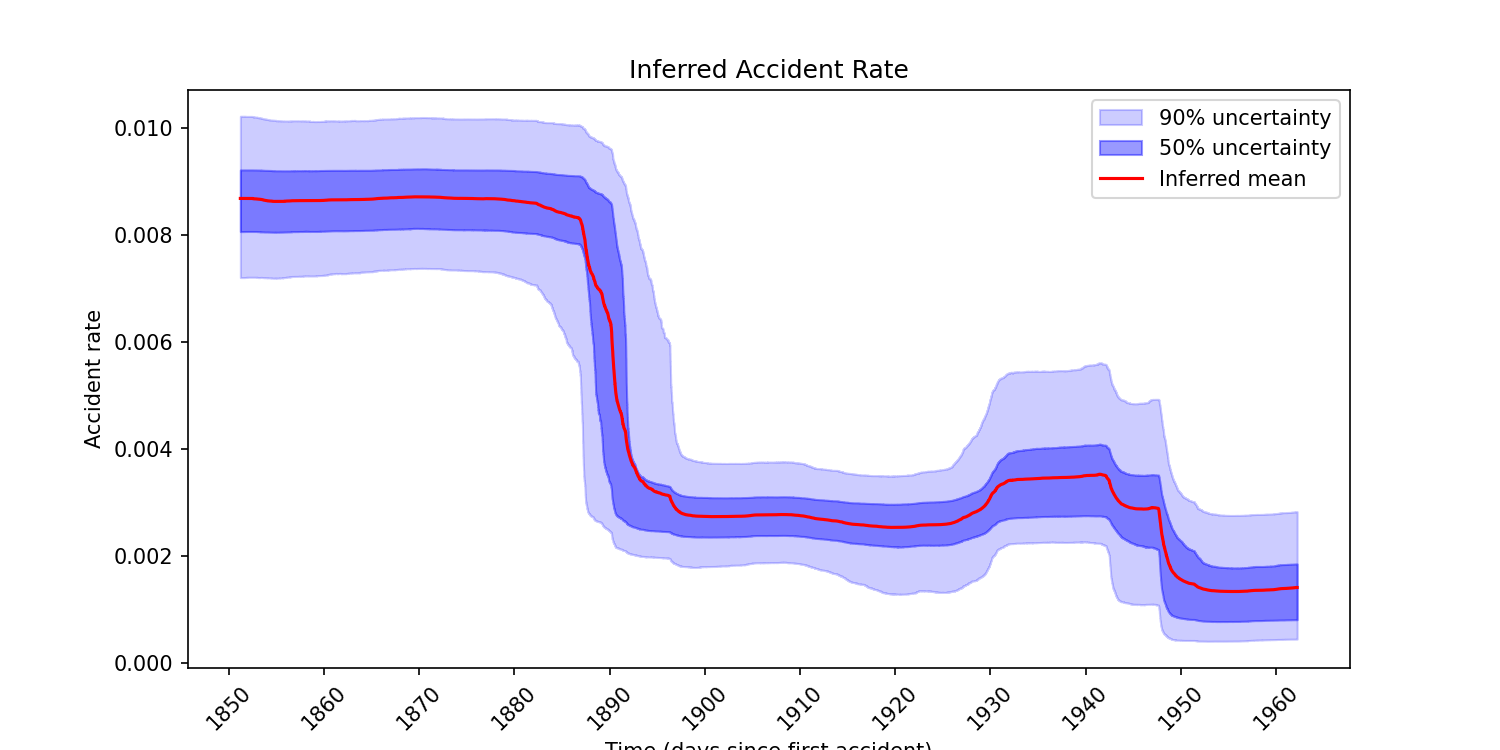
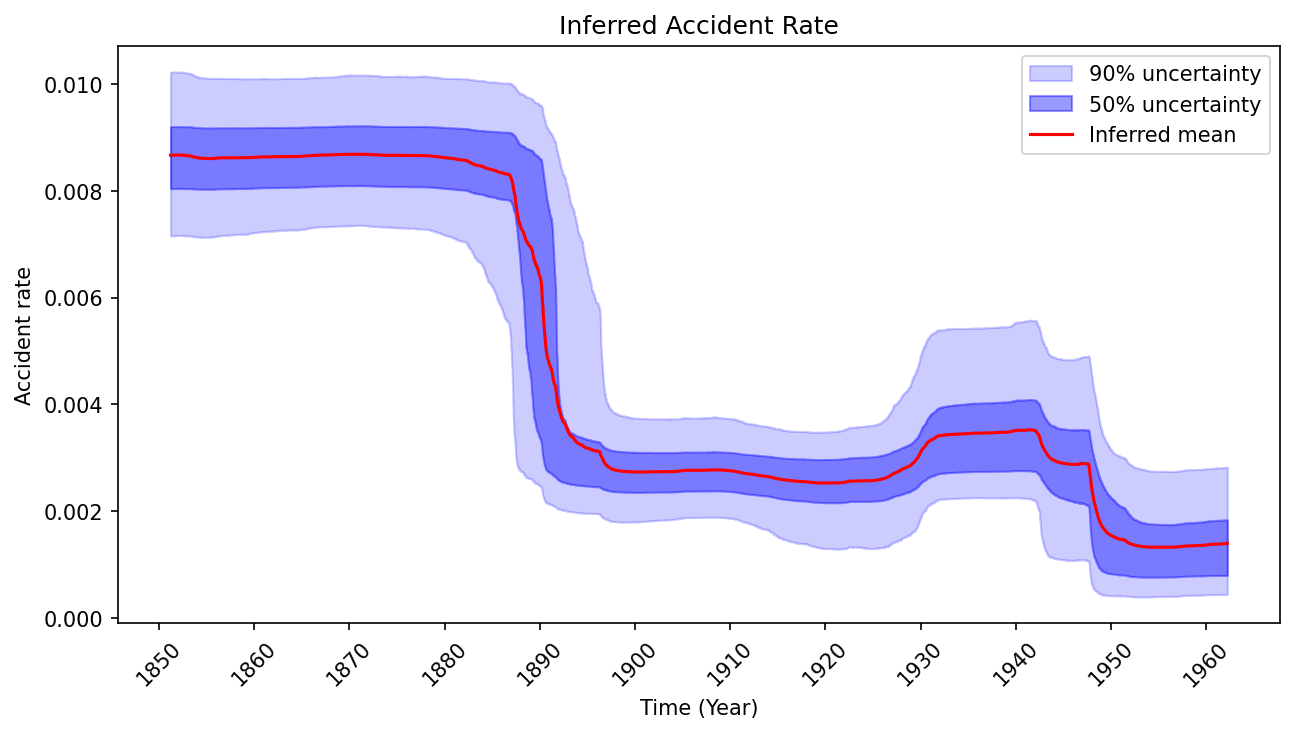
written report included

diff --git a/helpers/q5.py b/helpers/q5.py
@@ -42,7 +42,7 @@ def autocorrelation_time(rjmcmc):
     return tau
 
 
-def k_post_trace(rjmcmc, discard, savefig="plots/k_post_trace.png"):
+def k_post_trace(rjmcmc, discard, first,savefig="plots/k_post_trace.png"):
     r"""
     Plot the trace of the model index k and its posterior distribution.
 
@@ -71,7 +71,7 @@ def k_post_trace(rjmcmc, discard, savefig="plots/k_post_trace.png"):
 
     fig, ax = plt.subplots(1, 2, sharey=True, gridspec_kw={'width_ratios': [2.5, 1]}, figsize=(10, 4), dpi=150)
 
-    ax[0].plot(ks)
+    ax[0].plot(ks[:first])
     ax[0].set_xlabel('Iteration')
     ax[0].set_ylabel('Model with k change points')
     ax[0].xaxis.set_major_formatter(ScalarFormatter(useMathText=True))
@@ -141,7 +141,8 @@ def plot_rate(rjmcmc, tau, savefig="plots/rate_v_time.png"):
     plt.fill_between(t, low_90, high_90, alpha=0.2, color='blue', label=r'90% uncertainty')
     plt.fill_between(t, low_50, high_50, alpha=0.4, color='blue', label=r'50% uncertainty')
     plt.plot(t, mean_height_v_time, color = 'red', label = "Inferred mean")
-    plt.xlabel("Time (days since first accident)")
+    # plt.xlabel("Time (days since first accident)")
+    plt.xlabel("Time (Year)")
     plt.xticks(tick_positions, tick_labels, rotation=45)
     plt.ylabel("Accident rate")
     plt.title("Inferred Accident Rate")